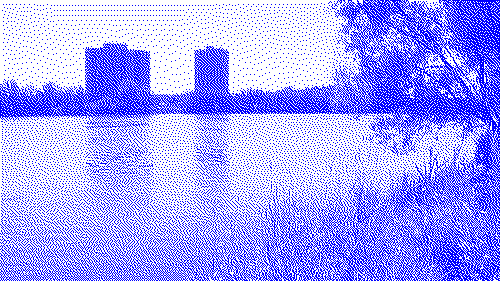
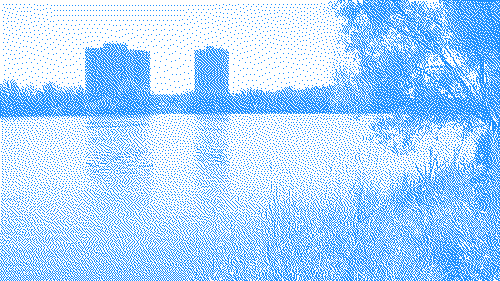
Merge pull request #8 from tripledoublev/change-blue-2026
Change blue for 2026

Pull request: Change blue for 2026
## Summary
- update site CSS blue values to #1e90ff
- recolor blue.png to match the 2026 blue

## Validation
- confirmed blue.png histogram contains #1E90FF and no #0000FF palette entries
- reviewed git diff for CSS color replacements

Closes #7

<!-- This is an auto-generated comment: release notes by coderabbit.ai -->

## Summary by CodeRabbit

* **Style**
  * Updated the site’s blue theme to a brighter `#1e90ff` across headings, backgrounds, links, and interactive box states.
  * Refined hover and page styling for a more consistent visual appearance.

<!-- end of auto-generated comment: release notes by coderabbit.ai -->

diff --git a/archive/v/index.html b/archive/v/index.html
@@ -6,7 +6,7 @@
     <style>
         body {
             font-family: monospace;
-            background-color: blue;
+            background-color: #1e90ff;
             position: relative;
             display: flex;
             justify-content: center;
@@ -21,13 +21,13 @@
             padding: calc(100vh / 60);
             border: 2px solid white;
             border-style: ridge;
-            background-color: blue;
+            background-color: #1e90ff;
             box-sizing: border-box;
             transition: border 0.5s, background-color 0.5s, padding 0.5s;
         }
         .box:hover {
             background-color: white;
-            border: 4px solid blue;
+            border: 4px solid #1e90ff;
             padding: calc(100vh / 240);
         }
     </style>

diff --git a/index.html b/index.html
@@ -21,7 +21,7 @@
     }
 
     h1 {
-      background: blue;
+      background: #1e90ff;
       color: white;
       display: inline-block;
       font-size: 1.765em;
@@ -33,7 +33,7 @@
     }
 
     a {
-      color: blue;
+      color: #1e90ff;
       font-style: italic;
     }
   </style>